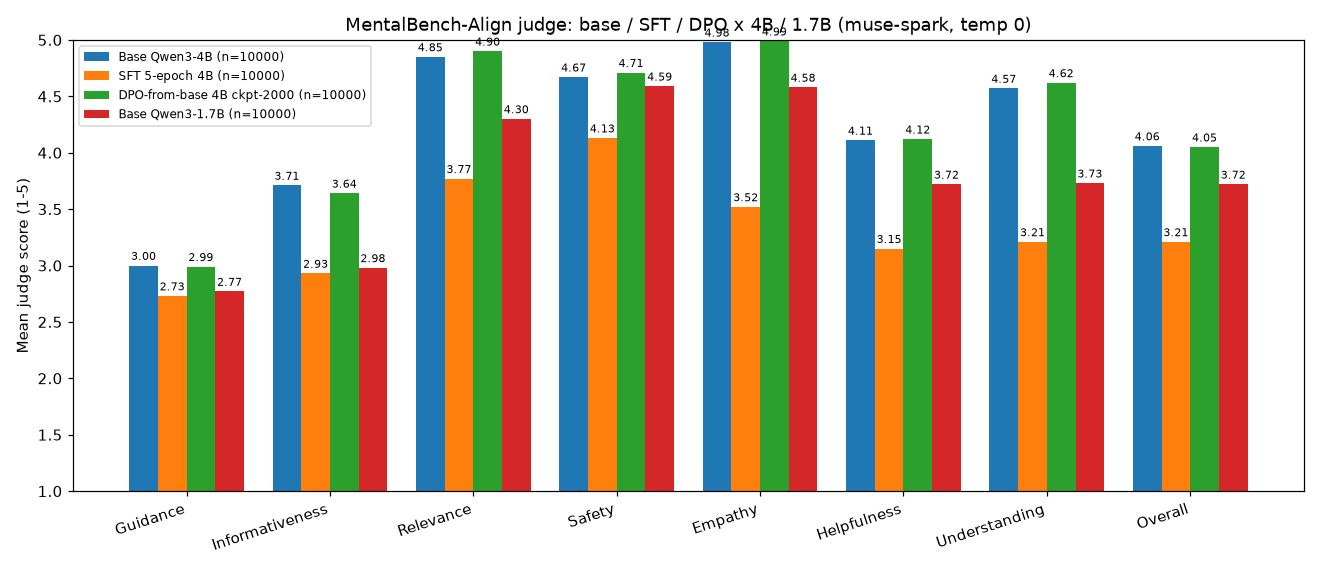
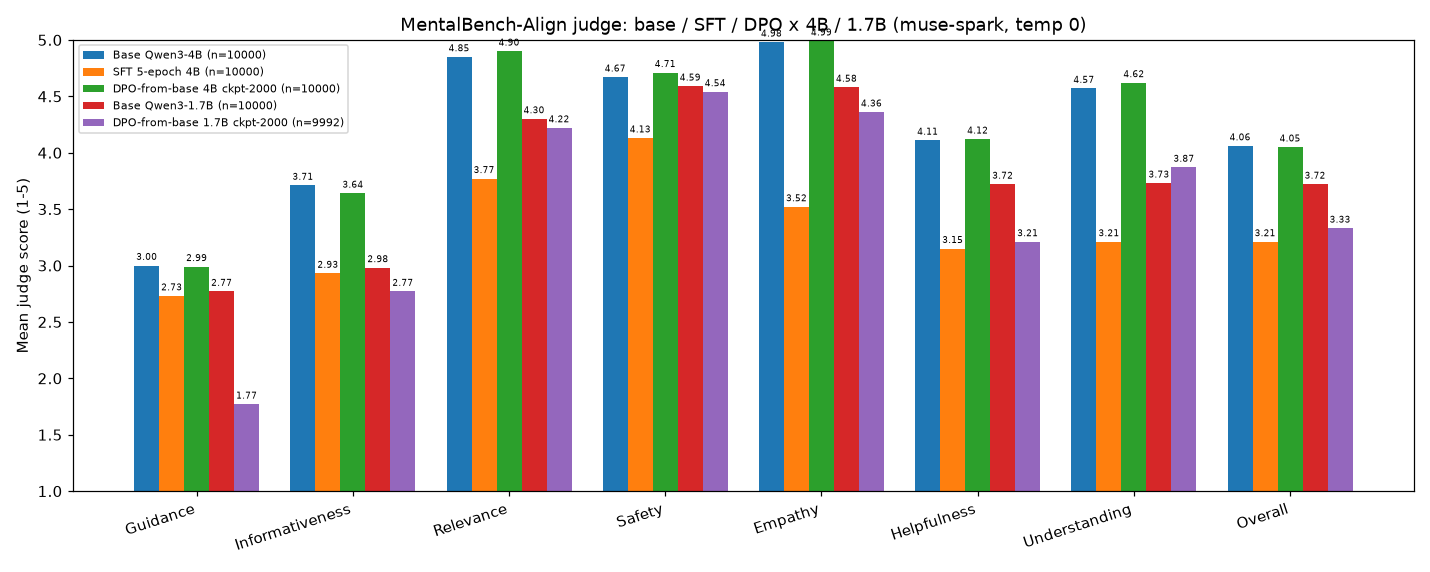
docs(evals): DPO-1.7B results + 5-series chart

diff --git a/docs/evals.md b/docs/evals.md
@@ -2,6 +2,36 @@
 
 ![Base vs SFT vs DPO mean judge scores](evals-sft5-vs-base.png)
 
+## DPO-from-base, Qwen3-1.7B ckpt-2000 (n=9992 judged)
+
+MentalBench-Align judge (same prompt, judge, and settings) over post-think
+final answers in `data/eval/mbench-qwen3-4b-baseline/output_mbench_1p7b_dpo_final.csv`
+(col `qwen3_1p7b_dpo`, thinking traces stripped; raw canonical CSV kept),
+scored 2026-10-22. 8 rows empty (thought with no answer) + 141 truncated
+pre-`</think>` under the 512-token cap; 9992 rows judged, no gaps besides those.
+Full output (gitignored): `data/eval/mbench-judge-1p7b-dpo.csv`.
+
+| Dimension       | Mean | SD   | %5  | %≤2 |
+|-----------------|------|------|-----|-----|
+| Guidance        | 1.77 | 0.87 | 0   | 75   |
+| Informativeness | 2.77 | 0.65 | 0   | 29   |
+| Relevance       | 4.22 | 0.63 | 31   | 1   |
+| Safety          | 4.54 | 0.92 | 74   | 7   |
+| Empathy         | 4.36 | 0.61 | 41   | 1   |
+| Helpfulness     | 3.21 | 0.69 | 0   | 12   |
+| Understanding   | 3.87 | 0.62 | 7   | 5   |
+| Overall         | 3.33 | 0.63 | 0   | 7   |
+
+Notes: DPO-1.7B trails base-1.7B (3.33 vs 3.72) — the headroom hypothesis
+FAILED in this setup. The drop concentrates in Guidance (−0.96): thinking
+traces eat ~60% of the 512-token budget, leaving answers too short for the
+actionable-steps rubric; 8 thought-only rows + 141 truncated rows are the
+extreme end. Understanding is the one axis that improves (+0.14), consistent
+with thinking helping comprehension while hurting completeness. The model
+also emits <think> on 10000/10000 rows (base: 0) — the adapter overrode the
+no-think header. Fair retest needs max_tokens that fits thought+answer
+(e.g. 1024); until then this scores DPO+truncation, not DPO alone.
+
 ## Base Qwen3-1.7B (n=10000)
 
 MentalBench-Align judge (same prompt, judge, and settings) over
